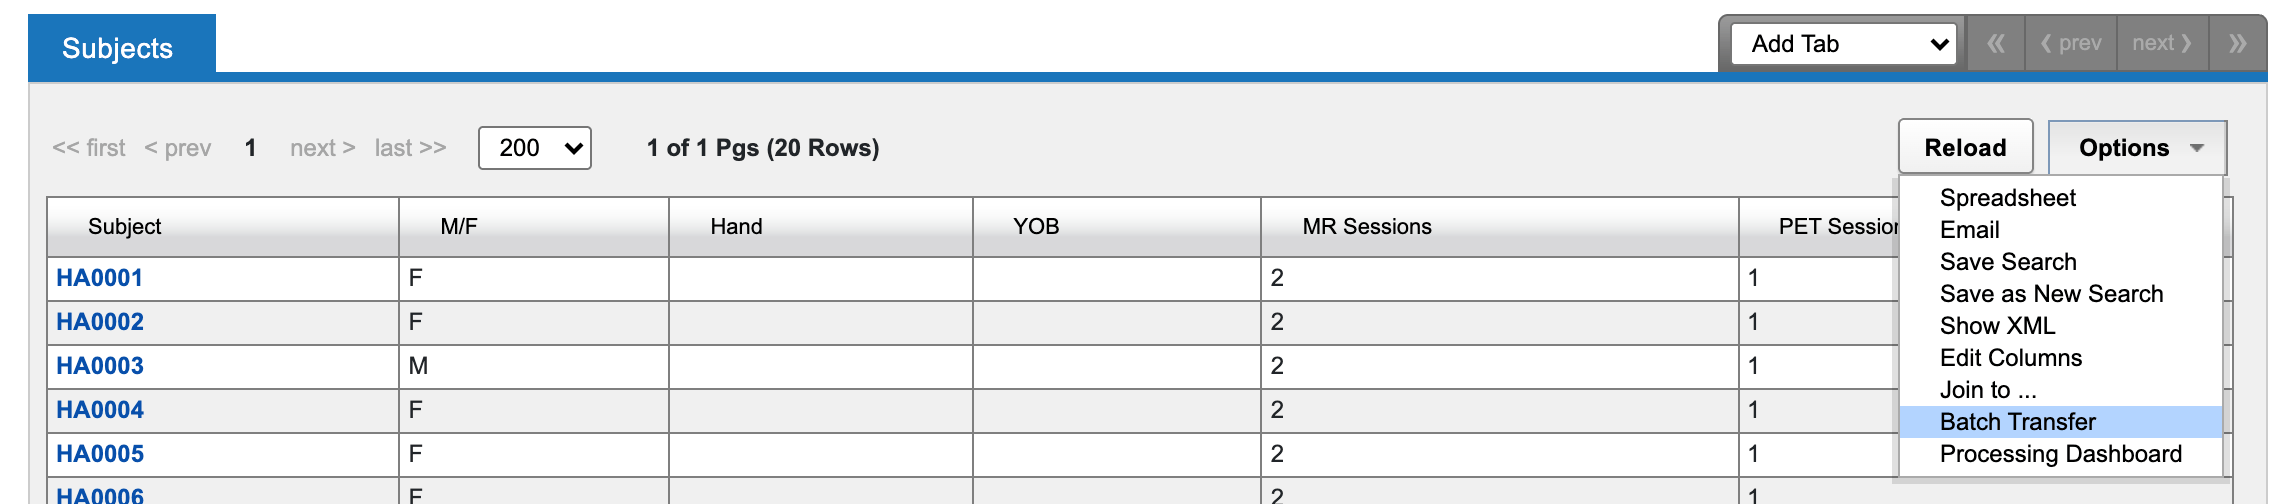
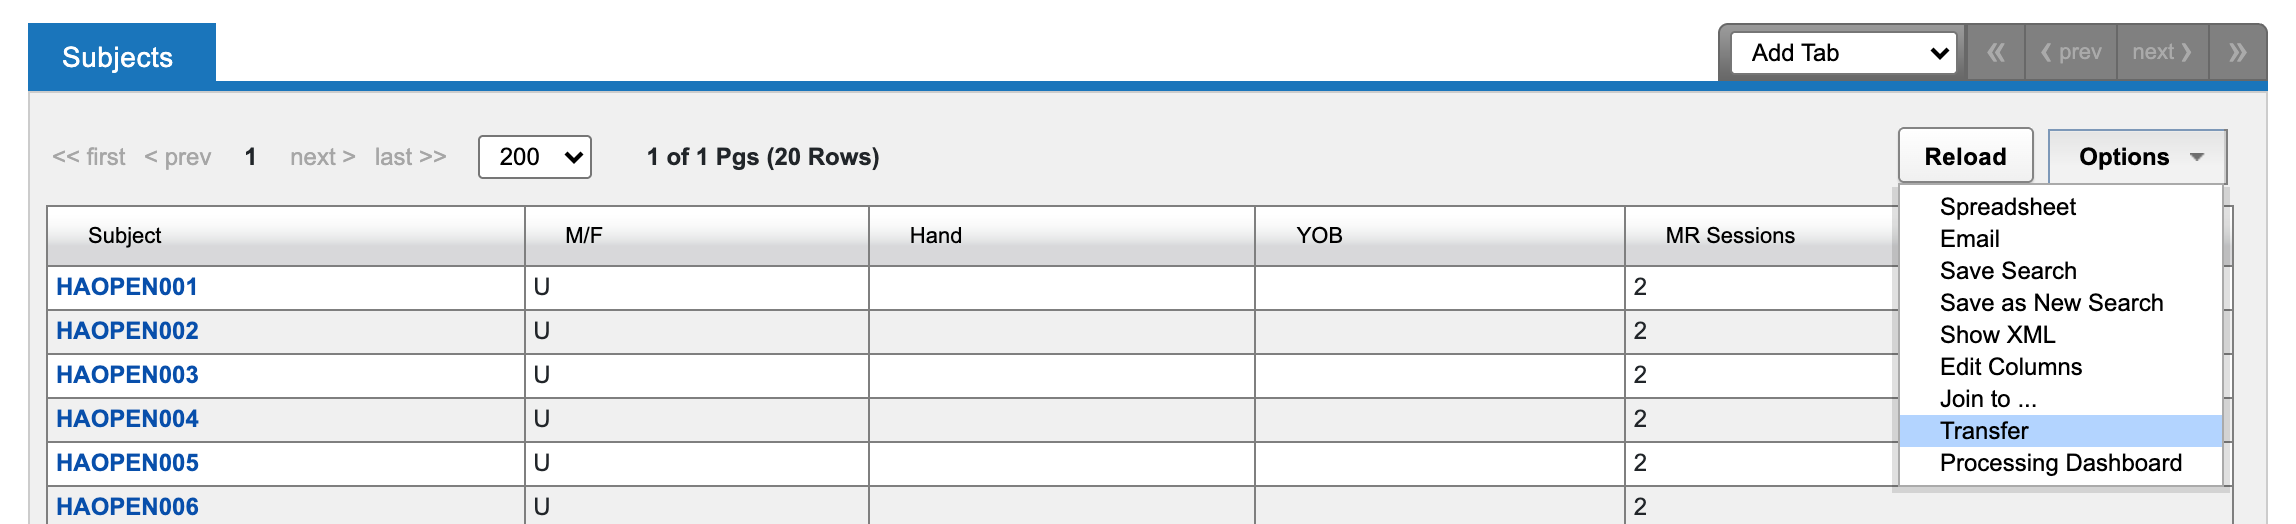
docs: retake the quick-start screenshots with the new menu labels
The Actions box, the listing's Options menu and the Tools menu now
show Transfer and Transfer History, and the History-only page and the
Plugin Settings tab show the new text that points to them. The project
page and listing shots come from HA_OPEN, since the guide's HA_MRI
project is no longer on the demo site; their captions say so.

diff --git a/docs/quick-start.md b/docs/quick-start.md
@@ -42,13 +42,13 @@ The screenshots were taken by `jlee`, an owner of all four projects.
 **From a project.** Open the source project and choose **Transfer** in its **Actions** box. The item appears
 for project owners, members who can edit the project's data, and site administrators.
 
-![The HA_MRI project page, with Transfer in the Actions box](quick-start/images/project-actions.png)
+![The HA_OPEN project page, with Transfer in the Actions box](quick-start/images/project-actions.png)
 
 **From a listing or search results.** In any data listing, open **Options** and choose **Transfer**. The screen
 opens with the items in that listing. If they come from more than one project, you can only select items in the tree,
 because a manifest needs a single source project.
 
-![The Options menu of HA_MRI's subject listing, with Transfer](quick-start/images/listing-options.png)
+![The Options menu of HA_OPEN's subject listing, with Transfer](quick-start/images/listing-options.png)
 
 **To look at past transfers only**, use **Tools > Transfer History** (see
 [History without a project](#9-history-without-a-project)).
